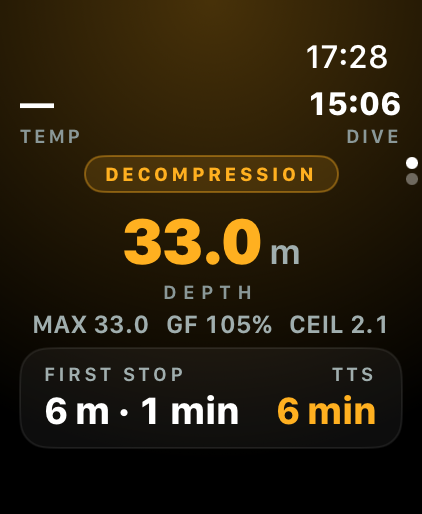
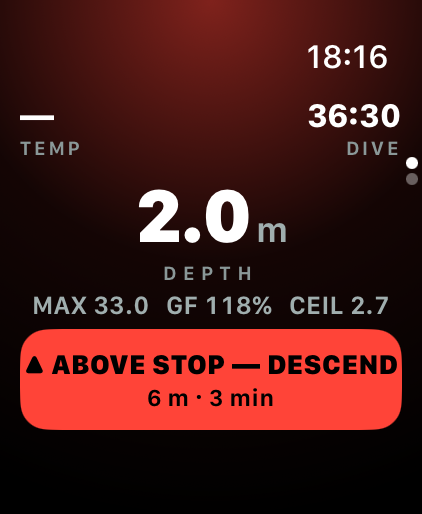
Manual with illustrative screens; corrected tissue/violation captures; caption fix

diff --git a/index.html b/index.html
@@ -115,7 +115,7 @@
     <figure><img src="assets/screens/ready.png" alt="READY screen with gas, gradient factors and sensor limit"><figcaption>Pre-dive: gas, GF, sensor limit — and the disclaimer</figcaption></figure>
     <figure><img src="assets/screens/dive-air.png" alt="Dive screen showing depth and no-deco limit"><figcaption>In the dive: depth rules the screen</figcaption></figure>
     <figure><img src="assets/screens/deco.png" alt="Decompression screen with first stop and time to surface"><figcaption>Deco: first stop and time-to-surface</figcaption></figure>
-    <figure><img src="assets/screens/violation.png" alt="Warning takeover instructing to ascend"><figcaption>Warnings take the whole screen — with haptics</figcaption></figure>
+    <figure><img src="assets/screens/violation.png" alt="Warning takeover instructing to ascend"><figcaption>A stop violation: the red directive names the action</figcaption></figure>
     <figure><img src="assets/screens/tissues.png" alt="Tissue saturation view"><figcaption>Tissue loading, compartment by compartment</figcaption></figure>
     <figure><img src="assets/screens/demo.png" alt="Demo dive with DEMO badge"><figcaption>Demo dives: try a full deco dive on land</figcaption></figure>
     <figure><img src="assets/screens/manual.png" alt="Manual page with QR code"><figcaption>Built-in manual — QR opens it on the phone</figcaption></figure>

diff --git a/scripts/build-manual.py b/scripts/build-manual.py
@@ -1,0 +1,53 @@
+#!/usr/bin/env python3
+"""Build manual/index.md from the app repo's generated MANUAL.md.
+
+Usage: scripts/build-manual.py path/to/MANUAL.md
+
+Inserts illustrative screenshots (assets/screens/) after selected section
+headings and prepends Jekyll front matter plus the mirror note. Rerun after
+every `swift run generate-manual` in the app repository.
+"""
+import sys, re, pathlib
+
+# section heading -> (image file, alt text, caption)
+IMAGES = {
+    "Read me first": ("ready.png", "READY screen with gas, gradient factors, sensor limit and the secondary-display disclaimer", "Pre-dive READY screen — the disclaimer is always visible."),
+    "The five pages": ("tissues.png", "Tissue saturation page with compartment bars and M-value line", "The Tissues page: compartment loading against the M-value line."),
+    "Dive display, top to bottom": ("dive-air.png", "Dive display showing depth and the no-deco limit", "The dive display on air: depth rules the screen."),
+    "Screens and colours": ("deco.png", "Decompression screen with amber accents, first stop and time to surface", "Deco: amber state, first stop and time-to-surface."),
+    "Warnings and honesty": ("violation.png", "Red ABOVE STOP - DESCEND directive during a stop violation", "A stop violation: the red directive names the action."),
+    "Demo dives (Try it)": ("demo.png", "Demo dive with the DEMO x60 badge", "A demo dive — the DEMO badge stays visible throughout."),
+}
+
+FRONT = """---
+title: WatchDiver Manual
+---
+
+"""
+
+MIRROR_NOTE = "> Mirror of the WatchDiver in-app Manual page — generated from the app sources (`swift run generate-manual`), published for reading on the phone via the QR code on the watch. [← watchdiver home](../)"
+
+
+def figure(filename, alt, caption):
+    return (f'\n<img src="../assets/screens/{filename}" alt="{alt}" width="240">\n\n'
+            f'*{caption}*\n')
+
+
+def main():
+    src = pathlib.Path(sys.argv[1]).read_text()
+    lines = src.splitlines()
+    # Replace the generation note (line 3 of MANUAL.md) with the mirror note.
+    if len(lines) > 2 and lines[2].startswith("> Generated from"):
+        lines[2] = MIRROR_NOTE
+    out = []
+    for line in lines:
+        out.append(line)
+        m = re.match(r"^## (.+)$", line)
+        if m and m.group(1) in IMAGES:
+            out.append(figure(*IMAGES[m.group(1)]))
+    pathlib.Path("manual/index.md").write_text(FRONT + "\n".join(out) + "\n")
+    print(f"manual/index.md written ({len(IMAGES)} figures)")
+
+
+if __name__ == "__main__":
+    main()

diff --git a/manual/index.md b/manual/index.md
@@ -8,9 +8,19 @@ title: WatchDiver Manual
 
 ## Read me first
 
+<img src="../assets/screens/ready.png" alt="READY screen with gas, gradient factors, sensor limit and the secondary-display disclaimer" width="240">
+
+*Pre-dive READY screen — the disclaimer is always visible.*
+
+
 WatchDiver is a SECONDARY DISPLAY, not a certified dive computer (no EN 13319, no redundancy). Always dive with an independent, certified dive computer and follow it and your training. If the two displays disagree, the certified computer wins — every time. Test each build with a demo dive (“Try it”, below) on land before taking it near water.
 
 ## The five pages
+
+<img src="../assets/screens/tissues.png" alt="Tissue saturation page with compartment bars and M-value line" width="240">
+
+*The Tissues page: compartment loading against the M-value line.*
+
 
 Turn the Digital Crown to change pages. Underwater the touchscreen is water-locked; everything is readable by glance, nothing needs a tap. The ring shows only pages that currently mean something: while diving (armed or submerged) it is Dive and Tissues; at the surface, Settings and Manual are always there, the Logbook joins once it holds a dive, and Tissues stays visible while your tissues carry loading from a dive.
 
@@ -40,6 +50,11 @@ Press DIVE on the READY screen before entering the water — that is the determi
 
 ## Dive display, top to bottom
 
+<img src="../assets/screens/dive-air.png" alt="Dive display showing depth and the no-deco limit" width="240">
+
+*The dive display on air: depth rules the screen.*
+
+
 | Term | Meaning |
 |---|---|
 | **TEMP · DIVE · GAS** | Water temperature (°C), time since submerging (m:ss), breathing gas. |
@@ -51,6 +66,11 @@ Press DIVE on the READY screen before entering the water — that is the determi
 | **Operative card** | Exactly one instruction at a time: the NDL countdown, or the first deco stop, or a red directive — never two at once. |
 
 ## Screens and colours
+
+<img src="../assets/screens/deco.png" alt="Decompression screen with amber accents, first stop and time to surface" width="240">
+
+*Deco: amber state, first stop and time-to-surface.*
+
 
 Colour is never the only signal — every state also changes its text. Teal = fine, amber = caution, red = act now. The background tints with depth and floods amber/red with severity.
 
@@ -78,6 +98,11 @@ Three levels, matching the colours:
 | **Success pattern** | Safety stop completed — clear to surface (advisory). |
 
 ## Warnings and honesty
+
+<img src="../assets/screens/violation.png" alt="Red ABOVE STOP - DESCEND directive during a stop violation" width="240">
+
+*A stop violation: the red directive names the action.*
+
 
 A visible failure beats a plausible wrong number. These lines can appear at the bottom of the dive display or on READY:
 
@@ -130,6 +155,11 @@ WatchDiver can live on your watch face (add it like any complication when editin
 
 ## Demo dives (Try it)
 
+<img src="../assets/screens/demo.png" alt="Demo dive with the DEMO x60 badge" width="240">
+
+*A demo dive — the DEMO badge stays visible throughout.*
+
+
 Both demos run on a separate, sandboxed model — your real tissue state, logbook and recovery snapshot stay untouched, guaranteed. The display is the production dive screen, and the vibrations are real: learning the haptic vocabulary is the point. Never start a demo in the water.
 
 | Term | Meaning |
@@ -140,5 +170,5 @@ Both demos run on a separate, sandboxed model — your real tissue state, logboo
 
 ## The model, in one breath
 
-Bühlmann ZH-L16C with gradient factors (Erik Baker): 16 theoretical nitrogen compartments load and unload exponentially; the display warns when the most loaded one approaches its tolerated limit. It models an average body — it knows nothing about cold, exertion, dehydration or your physiology. That is one of the reasons this app must stay a secondary display.
+Bühlmann ZH-L16C with gradient factors (Erik Baker): 16 theoretical nitrogen compartments load and unload exponentially; the display warns when the most loaded one approaches its tolerated limit. Like every dive computer, it assumes average body conditions — cold, exertion, dehydration and personal physiology are not measured; dive conservatively when they apply.
 